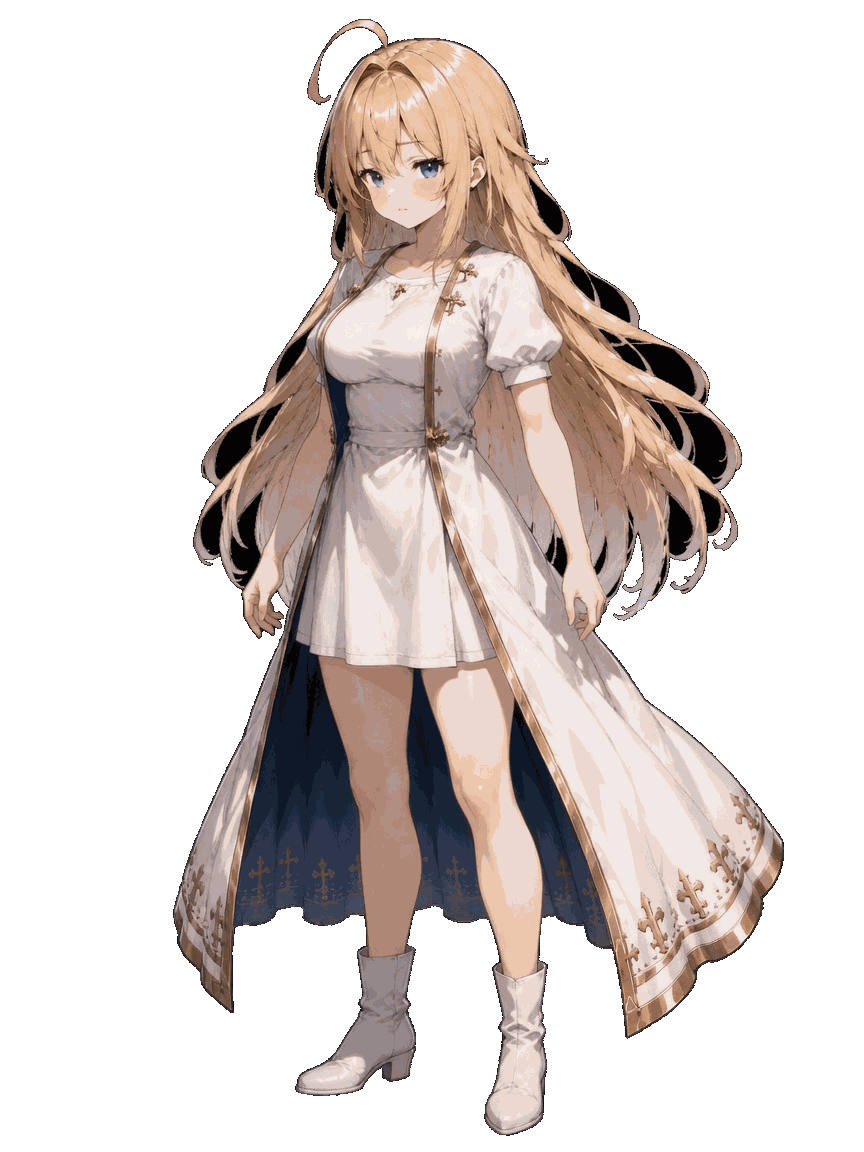
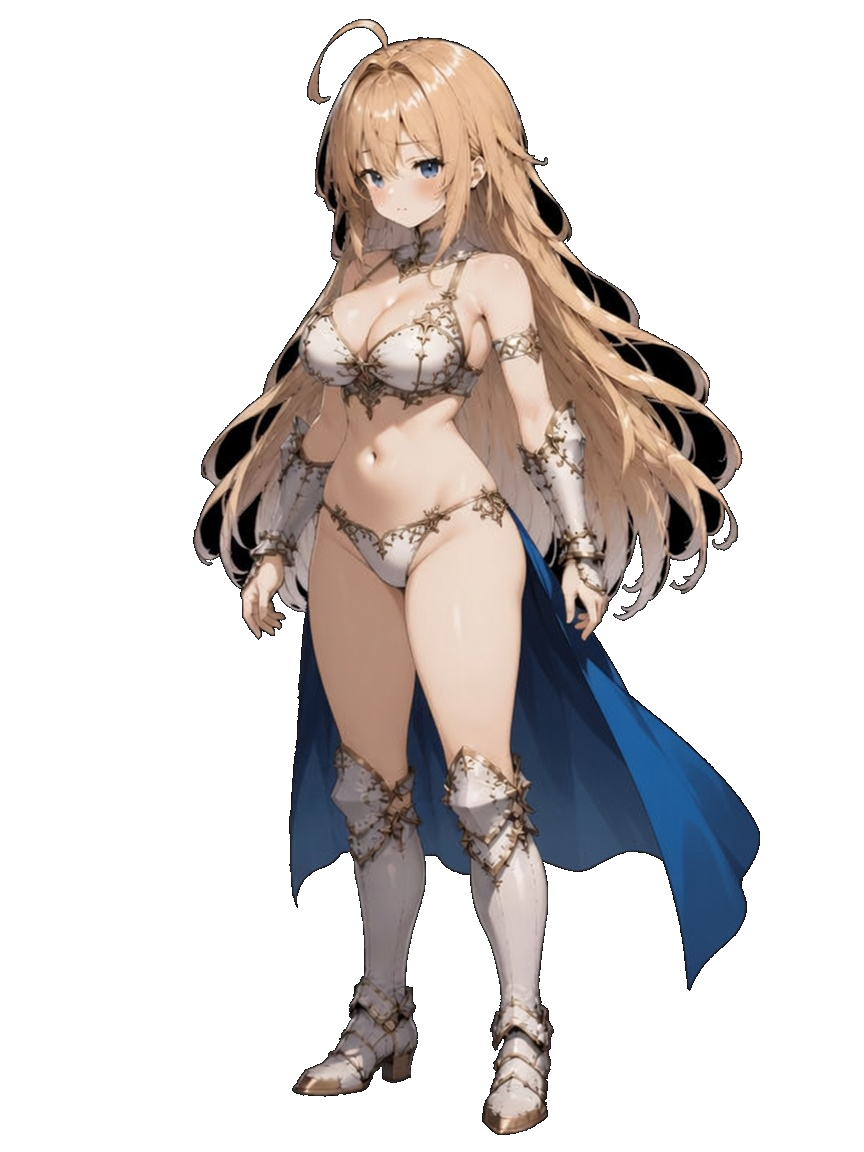
Idle portraits: light armor only for leather/stomach, unarmored underwear when bare.

Changed region(s): [[0.1875, 0.0, 0.9062, 1.0], [0.8438, 0.375, 0.875, 0.4062]]

diff --git a/portraits.js b/portraits.js
@@ -31,6 +31,28 @@ export function hpKey(p) {
   return "hp_full";
 }
 
+/** 軽装備立ち絵を出す防具名（革の鎧・腹持ちの胴） */
+export const LIGHT_ARMOR_STAND_NAMES = new Set(["革の鎧", "腹持ちの胴"]);
+
+export function isLightArmorStand(armor) {
+  if (!armor) return false;
+  return LIGHT_ARMOR_STAND_NAMES.has(armor.name);
+}
+
+/**
+ * 待機時の立ち絵グループ。
+ * HP満タン寄りのみ装備で分岐：未装備→下着、革/腹持ち→軽装、その他→通常装備群。
+ */
+export function idleStandKey(p) {
+  if (!p) return "hp_full";
+  const r = (p.hp ?? 0) / Math.max(1, p.maxHp ?? 1);
+  if (r <= 0.25) return "hp_low";
+  if (r <= 0.6) return "hp_mid";
+  if (!p.armor) return "stand_unarmored";
+  if (isLightArmorStand(p.armor)) return "stand_light_armor";
+  return "hp_full";
+}
+
 /** プレイヤーの近接攻撃メッセージか（モンスターの「の攻撃！」は除外）
  *  武器未装備なら attack_unarmed、装備中なら attack
  *  player 省略時は attack（ダメージ判定用）
@@ -426,7 +448,7 @@ export function resolvePortraitEvent({ player: p, prev, lastMsg, recentMsgs = []
     return { src: pickDeathPortrait(p.deathCause), cooldownUntil: now + 99999, force: true };
   }
   if (!prev) {
-    return { src: pickPortrait(hpKey(p)), cooldownUntil: now, force: true };
+    return { src: pickPortrait(idleStandKey(p)), cooldownUntil: now, force: true };
   }
 
   const isLow = p.hp / p.maxHp <= 0.25;
@@ -492,6 +514,10 @@ export function resolvePortraitEvent({ player: p, prev, lastMsg, recentMsgs = []
   const equipKey = detectEquipChange(p, prev);
   if (equipKey) {
     return portraitEvent(equipKey, now);
+  }
+  /* 防具を外した直後は未装備（下着）待機へ */
+  if ((prev.armorId ?? null) && !p.armor) {
+    return portraitEvent("stand_unarmored", now);
   }
 
   if (findMsgInNew(newMsgs, lastMsg, isCursedAcquireMsg)) {

diff --git a/tests/portraits.test.js b/tests/portraits.test.js
@@ -22,6 +22,8 @@ import {
   isDrownDeath,
   resolvePortraitEvent,
   hpKey,
+  idleStandKey,
+  isLightArmorStand,
   PORTRAIT_SETS,
 } from "../portraits.js";
 
@@ -282,6 +284,33 @@ describe("portraits", () => {
     expect(hpKey({ hp: 10, maxHp: 100 })).toBe("hp_low");
     expect(hpKey({ hp: 50, maxHp: 100 })).toBe("hp_mid");
     expect(hpKey({ hp: 90, maxHp: 100 })).toBe("hp_full");
+  });
+
+  it("idleStandKey が防具で待機立ち絵を分岐する", () => {
+    expect(isLightArmorStand({ name: "革の鎧" })).toBe(true);
+    expect(isLightArmorStand({ name: "腹持ちの胴" })).toBe(true);
+    expect(isLightArmorStand({ name: "プレートメイル" })).toBe(false);
+    expect(idleStandKey({ hp: 90, maxHp: 100, armor: null })).toBe("stand_unarmored");
+    expect(idleStandKey({ hp: 90, maxHp: 100, armor: { name: "革の鎧" } })).toBe("stand_light_armor");
+    expect(idleStandKey({ hp: 90, maxHp: 100, armor: { name: "腹持ちの胴" } })).toBe("stand_light_armor");
+    expect(idleStandKey({ hp: 90, maxHp: 100, armor: { name: "プレートメイル" } })).toBe("hp_full");
+    expect(idleStandKey({ hp: 10, maxHp: 100, armor: null })).toBe("hp_low");
+  });
+
+  it("防具を外すと未装備立ち絵になる", () => {
+    const player = {
+      hp: 90, maxHp: 100, x: 5, y: 5, level: 3, armor: null,
+      poisoned: false, sleepTurns: 0, confusedTurns: 0,
+      darknessTurns: 0, oilyTurns: 0,
+    };
+    const prev = {
+      ...player,
+      armorId: "leather-1",
+      weaponId: null,
+      ringIds: [],
+    };
+    const event = resolvePortraitEvent({ player, prev, lastMsg: "革の鎧を外した。" });
+    expect(event.src).toMatch(/stand_unarmored/);
   });
 
   it("MP復活は大回復立ち絵にせずピンチ専用へ", () => {

diff --git a/usePortrait.js b/usePortrait.js
@@ -6,6 +6,7 @@ import {
   PORTRAIT_WALK_STEPS_MIN,
   PORTRAIT_WALK_STEPS_JITTER,
   pickPortrait,
+  idleStandKey,
   resolvePortraitEvent,
   snapshotPlayer,
 } from "./portraits.js";
@@ -64,9 +65,7 @@ export function usePortrait({
     portraitCooldownRef.current = 0;
     heldStatusKeyRef.current = null;
     if (gs?.player) {
-      setPortraitSrc(pickPortrait(
-        gs.player.hp / gs.player.maxHp <= 0.25 ? "hp_low" : "hp_full",
-      ));
+      setPortraitSrc(pickPortrait(idleStandKey(gs.player)));
     }
   }, [gs, setPortraitSrc]);
 
@@ -155,13 +154,8 @@ export function usePortrait({
 
     walkStepRef.current = 0;
 
-    /* 立ち止まっているとき：瀕死はピンチ、それ以外は通常立ち絵群（stand_normal 等）へ戻す
-     * 歩行・ダッシュ立ち絵が張り付き、通常が出ないのを防ぐ */
-    if (isLow) {
-      forcePortrait("hp_low");
-    } else {
-      tryPortrait("hp_full");
-    }
+    /* 立ち止まっているとき：装備に応じた待機立ち絵へ戻す（歩行・ダッシュの張り付き防止） */
+    tryPortrait(idleStandKey(p));
   }, [gs, setPortraitSrc, tryPortrait, forcePortrait]);
 
   return { pauseDynamic, resumeDynamic };

diff --git a/portraitCatalog.js b/portraitCatalog.js
@@ -135,7 +135,10 @@ export const PORTRAIT_CATEGORIES = [
     slots: [
       { file: "stand_normal", label: "通常", group: "hp_full" },
       { file: "stand_equipped", label: "装備", group: "hp_full" },
-      { file: "stand_light_armor", label: "軽装備", group: "hp_full" },
+      /* 革の鎧・腹持ちの胴装備時の待機のみ（idleStandKey） */
+      { file: "stand_light_armor", label: "軽装備（革・腹持ち）", group: "stand_light_armor" },
+      /* 防具未装備の待機のみ */
+      { file: "stand_unarmored", label: "未装備（下着）", group: "stand_unarmored" },
       { file: "stand_walk", label: "歩行", group: "walk" },
       { file: "stand_advance", label: "前進", group: "walk" },
       { file: "battle_dash", label: "ダッシュ", group: "dash" },

diff --git a/tests/portraitCatalog.test.js b/tests/portraitCatalog.test.js
@@ -37,6 +37,10 @@ describe("portraitCatalog", () => {
     expect(sets.status_soaked).toEqual(["status_soaked"]);
     expect(sets.status_bound).toEqual(["status_bound"]);
     expect(sets.status_confined).toEqual(["status_confined"]);
+    expect(sets.stand_light_armor).toEqual(["stand_light_armor"]);
+    expect(sets.stand_unarmored).toEqual(["stand_unarmored"]);
+    expect(sets.hp_full).not.toContain("stand_light_armor");
+    expect(sets.hp_full).not.toContain("stand_unarmored");
   });
 
   it("状態異常に拘束・閉じ込めスロットがある", () => {
